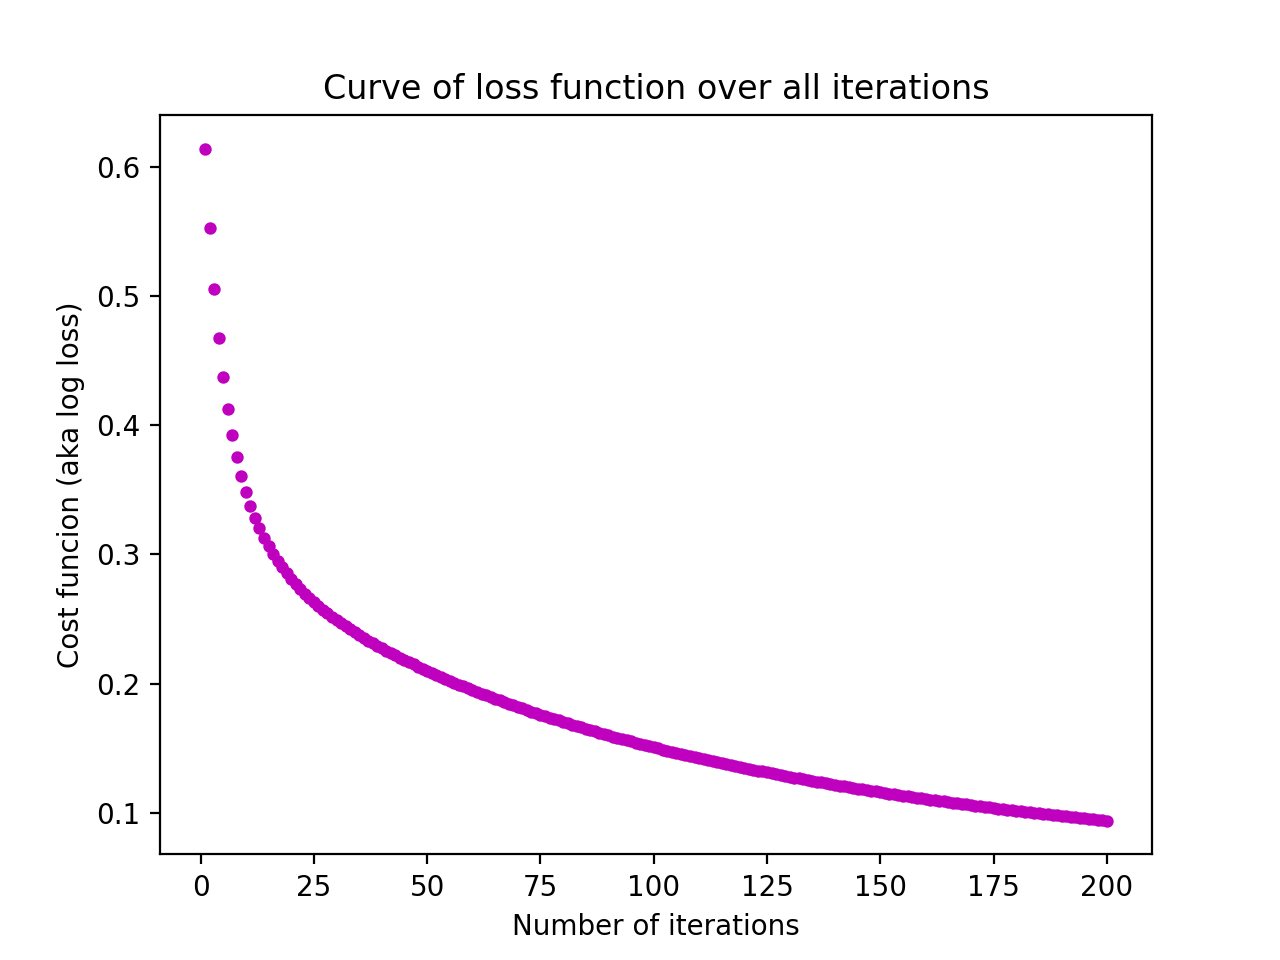
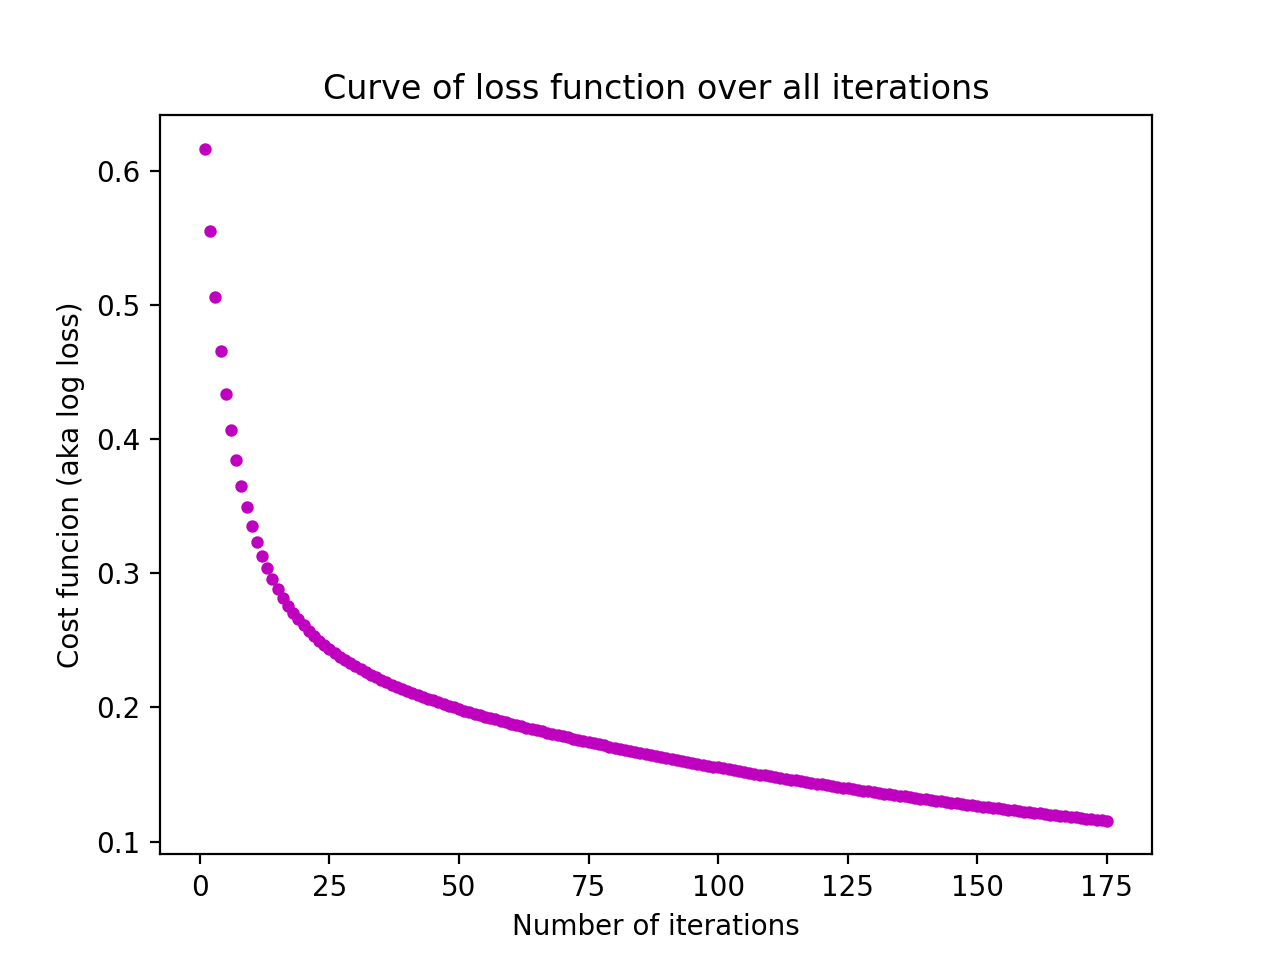
adding some bells and whistles to bar graph

diff --git a/machine_learning/logistic_regression/runner.py b/machine_learning/logistic_regression/runner.py
@@ -21,8 +21,8 @@ import regression
 import machine_learning.utils.plotter as inhouse_plotter
 relative_path_to_file = '../data/preprocessed_files/rbi/banks_posatm_summary.csv'
 learning_rate = 0.001
-iterations_for_learning = 100
-number_of_simulations = 50
+iterations_for_learning = 175
+number_of_simulations = 75
 test_set_proportion = 0.4
 dirname = os.path.dirname(__file__)
 filename = os.path.join(dirname, relative_path_to_file)
@@ -49,15 +49,7 @@ for i in range(number_of_simulations):
     f1_score_test = regression.F1_score(y_test,y_test_pred)
     training_f1_score.append(f1_score_train)
     testing_f1_score.append(f1_score_test)
-    print('f1 score on test data')
-    print(f1_score_test)
-    print('f1 score on train data')
-    print(f1_score_train)
 
-
-print('cost_list')
-print(len(cost_list))
-print(cost_list)
 
 inhouse_plotter.plot_loss_function(range(1,num_iter+1),cost_list)
 inhouse_plotter.plot_f1_score(range(1,number_of_simulations+1),testing_f1_score)

diff --git a/machine_learning/utils/plotter.py b/machine_learning/utils/plotter.py
@@ -77,6 +77,7 @@ def plot_loss_function(numof_iters,loss_list):
 
 def plot_f1_score(numof_simus,score_list):
     plt.bar(numof_simus,score_list,color='b',width=0.5)
+    plt.scatter(numof_simus, score_list, color='m', marker='o', s=12)
     plt.xlabel(f'Number of simulations')
     plt.ylabel(f'F1 score')
     plt.title(f'Performance of logistic regression over many simulations')
